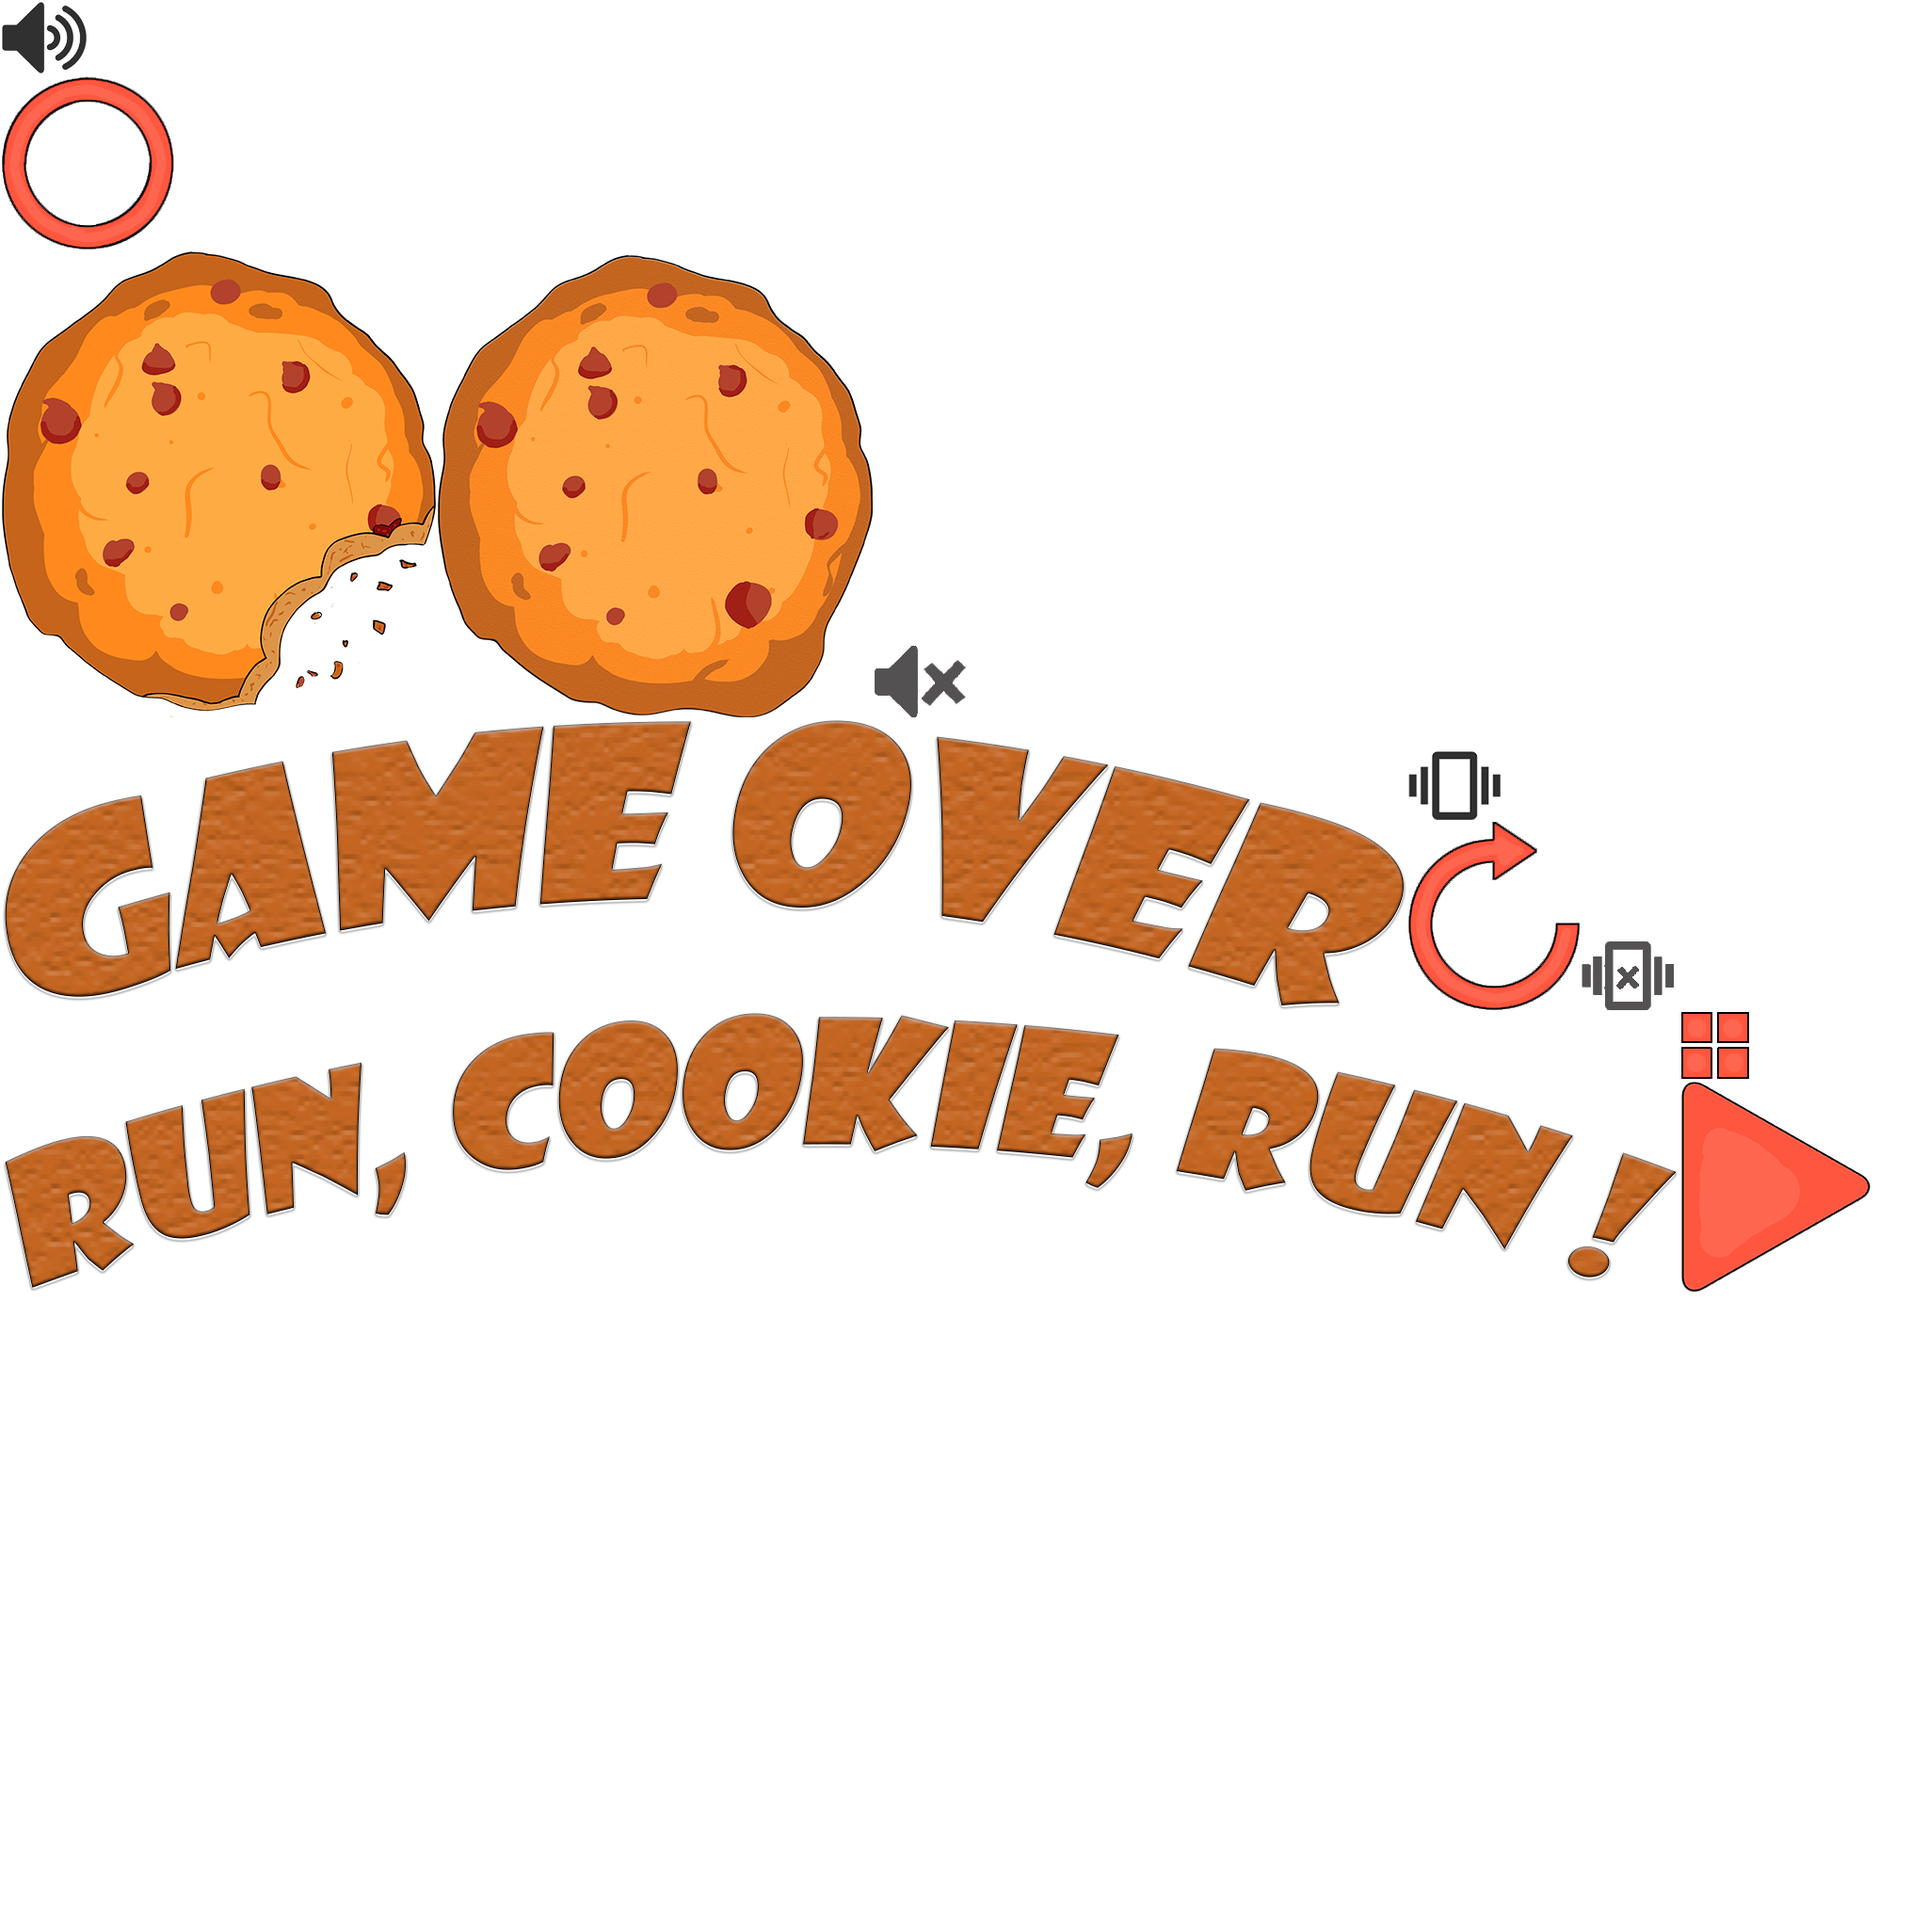
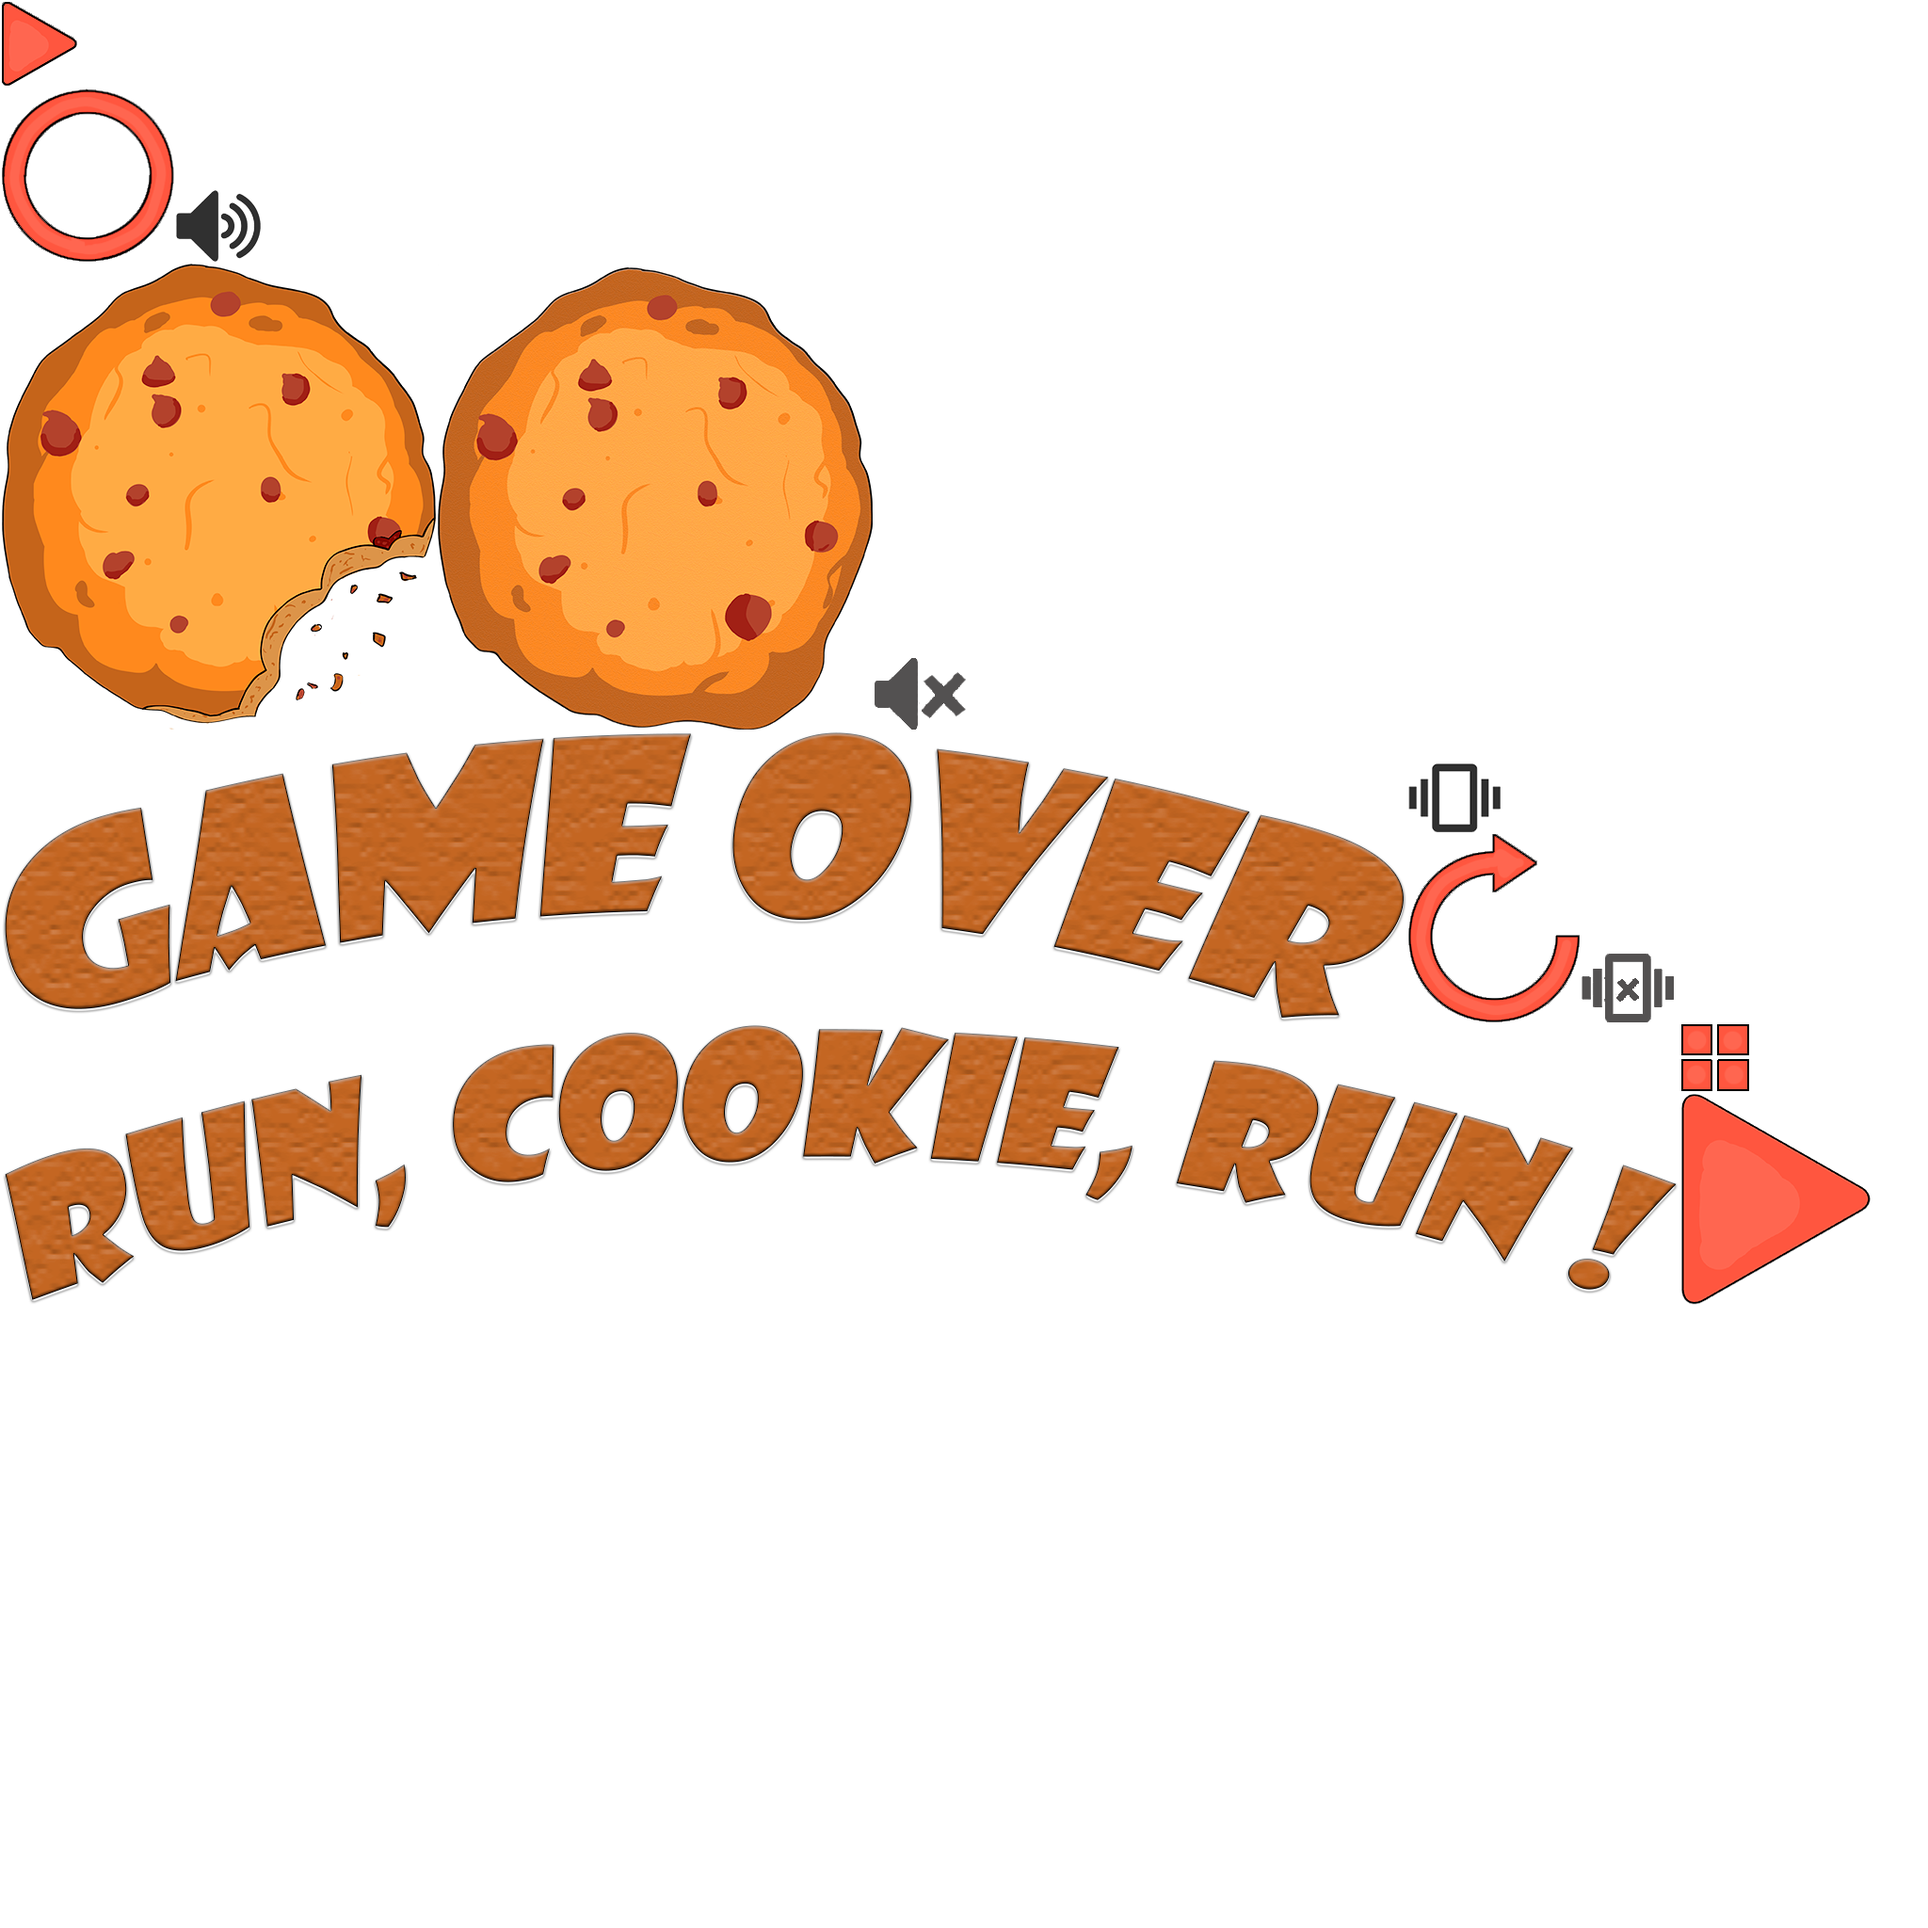
(feature) continue working with game over screen
- add replay actor

diff --git a/core/src/com/mygdx/game/actors/game_over_screen/RestartIcon.kt b/core/src/com/mygdx/game/actors/game_over_screen/RestartIcon.kt
@@ -8,6 +8,7 @@ import com.badlogic.gdx.math.Interpolation
 import com.badlogic.gdx.scenes.scene2d.Actor
 import com.badlogic.gdx.scenes.scene2d.InputEvent
 import com.badlogic.gdx.scenes.scene2d.actions.Actions
+import com.badlogic.gdx.scenes.scene2d.actions.RepeatAction
 import com.badlogic.gdx.scenes.scene2d.utils.ClickListener
 import com.mygdx.game.Prefs
 import com.mygdx.game.actors.Movable
@@ -21,7 +22,7 @@ class RestartIcon(manager : AssetManager) : Actor(), Movable {
     private val texture = manager.get(Descriptors.menu)
     private val region = texture.findRegion(Assets.MainMenuAtlas.COOKIE_BUTTON)
     private val replayButton = texture.findRegion(Assets.MainMenuAtlas.REPLAY_BUTTON)
-    private val buttonPlay = texture.findRegion(Assets.MainMenuAtlas.BUTTON_PLAY)
+    private val buttonPlay = texture.findRegion(Assets.MainMenuAtlas.BUTTON_PLAY_MINI)
 
     private var vibrationSettings = prefs.getBoolean(Prefs.VIBRATION, true)
 
@@ -35,8 +36,16 @@ class RestartIcon(manager : AssetManager) : Actor(), Movable {
         scaleY = 0.5f
         width = region.originalWidth.toFloat()
         height = region.originalHeight.toFloat()
-
+        setOrigin(replayButton.originalWidth/2f, (replayButton.originalHeight-18)/2f )
         addClickListener()
+        addRotateAnimation()
+    }
+
+    private  fun addRotateAnimation(){
+        addAction(Actions.parallel(Actions.repeat(RepeatAction.FOREVER,
+                Actions.sequence(
+                        Actions.rotateBy(-360f, 10f),
+                        Actions.rotateTo(0f)))))
     }
 
     private fun addClickListener(){
@@ -68,16 +77,19 @@ class RestartIcon(manager : AssetManager) : Actor(), Movable {
     private fun drawReplayIcon(batch: Batch){
         val iconWidth = replayButton.originalWidth.toFloat()
         val iconHeight = replayButton.originalHeight.toFloat()
-        batch.draw(replayButton, centerX - (iconWidth / 2), centerY - (iconHeight/2), iconWidth, iconHeight)
+        val x = centerX - (iconWidth / 2)
+        val y = centerY - (iconHeight / 2)
+
+        batch.draw(replayButton, x, y, originX, originY, iconWidth, iconHeight,1f,1f, rotation)
     }
 
     private fun drawPlayIcon(batch: Batch){
         val iconWidth = buttonPlay.originalWidth.toFloat()
         val iconHeight = buttonPlay.originalHeight.toFloat()
-        val x = centerX - (iconWidth / 2)
-        val y = centerY - (iconHeight / 2)
+        val x = centerX - ((iconWidth / 2) - 9)
+        val y = centerY - ((iconHeight / 2) + 9)
 
-        batch.draw(buttonPlay, x, y, x, y, iconWidth, iconHeight, 0.3f, 0.3f, 0f)
+        batch.draw(buttonPlay, x, y, iconWidth, iconHeight)
     }
 
     override fun move() {

diff --git a/core/src/com/mygdx/game/actors/main_menu_screen/VibrationIcon.kt b/core/src/com/mygdx/game/actors/main_menu_screen/VibrationIcon.kt
@@ -20,8 +20,8 @@ class VibrationIcon(manager : AssetManager, sound: Actor) : Actor(), Movable {
 
     private val texture = manager.get(Descriptors.menu)
     private val region = texture.findRegion(Assets.MainMenuAtlas.COOKIE_BUTTON)
-    private val vibrationOnRegion = texture.findRegion(Assets.MainMenuAtlas.VIBR_ON)
-    private val vibrationOffRegion = texture.findRegion(Assets.MainMenuAtlas.VIBR_OFF)
+    private val vibrationOnRegion = texture.findRegion(Assets.MainMenuAtlas.VIBRATION_ON)
+    private val vibrationOffRegion = texture.findRegion(Assets.MainMenuAtlas.VIBRATION_OFF)
     private var vibrationIcon = vibrationOnRegion
 
     private var vibrationSettings = prefs.getBoolean(Prefs.VIBRATION, true)

diff --git a/core/src/com/mygdx/game/data/Assets.kt b/core/src/com/mygdx/game/data/Assets.kt
@@ -56,10 +56,11 @@ class Assets {
             const val NAME = "mainMenu.atlas"
             const val SOUND_ON = "soundOn"
             const val SOUND_OFF = "soundOff"
-            const val VIBR_ON = "vibrOn"
-            const val VIBR_OFF = "vibrOff"
+            const val VIBRATION_ON = "vibrOn"
+            const val VIBRATION_OFF = "vibrOff"
             const val BLUR = "blur"
             const val BUTTON_PLAY = "buttonPlay"
+            const val BUTTON_PLAY_MINI = "cookieButtonPlayMini"
             const val CIRCLE = "circle"
             const val COOKIE_BUTTON = "cookieButton"
             const val COOKIE_BUTTON_2 = "cookieButton2"
